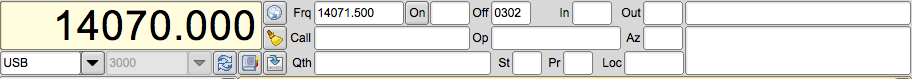
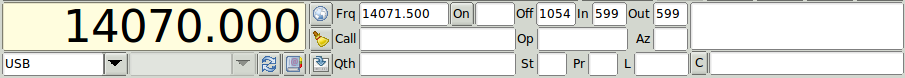
LOG area controls
* Resize controls to add County
    - allow user to select which extra qso field is displayed:
      . country
      . county

diff --git a/src/include/FTextRXTX.h b/src/include/FTextRXTX.h
@@ -66,7 +66,8 @@ public:
 protected:
 	enum {
 		RX_MENU_QRZ_THIS, RX_MENU_CALL, RX_MENU_NAME, RX_MENU_QTH,
-		RX_MENU_STATE, RX_MENU_PROVINCE,RX_MENU_COUNTRY, RX_MENU_LOC,
+		RX_MENU_STATE, RX_MENU_COUNTY, RX_MENU_PROVINCE,
+		RX_MENU_COUNTRY, RX_MENU_LOC,
 		RX_MENU_RST_IN,
 		RX_MENU_XCHG, RX_MENU_SERIAL,
 		RX_MENU_CLASS, RX_MENU_SECTION,

diff --git a/src/include/fl_digi.h b/src/include/fl_digi.h
@@ -106,6 +106,7 @@ extern Fl_Input2		*inpRstOut;
 extern Fl_Input2		*inpQth;
 extern Fl_Input2		*inpState;
 extern Fl_Input2		*inpCountry;
+extern Fl_Input2		*inpCounty;
 extern Fl_Input2		*inpSerNo;
 extern Fl_Input2		*outSerNo;
 extern Fl_Input2		*outSerNo1;
